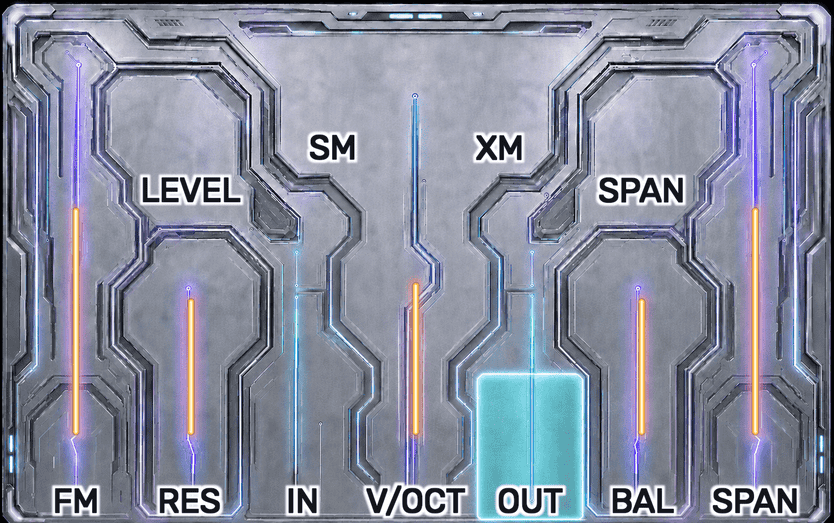
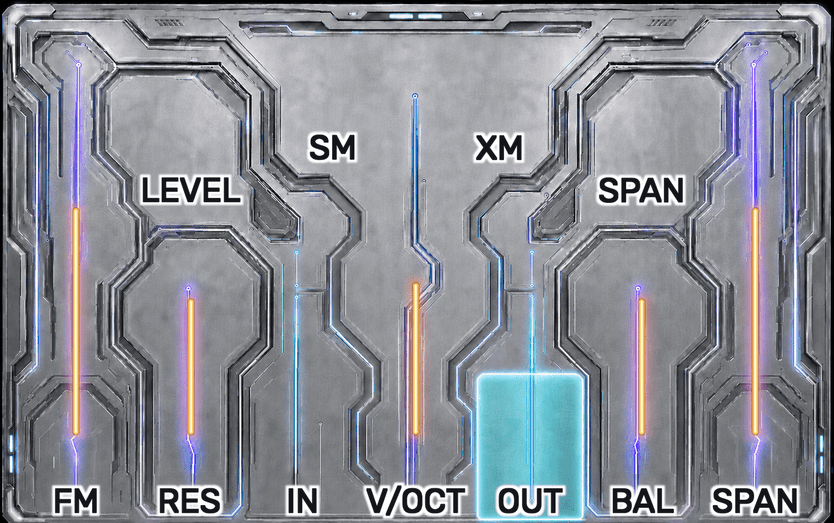
Rework bifurx panels to be a bit more neutral and bake into process

diff --git a/tools/bifurx_raster_tone.py b/tools/bifurx_raster_tone.py
@@ -1,0 +1,103 @@
+"""Deterministic color treatment shared by the Bifurx raster generators."""
+
+from __future__ import annotations
+
+import numpy as np
+from PIL import Image
+from pathlib import Path
+import shutil
+import subprocess
+import tempfile
+
+
+def _srgb_to_linear(value: np.ndarray) -> np.ndarray:
+    return np.where(
+        value <= 0.04045,
+        value / 12.92,
+        np.power((value + 0.055) / 1.055, 2.4),
+    )
+
+
+def _linear_to_srgb(value: np.ndarray) -> np.ndarray:
+    return np.where(
+        value <= 0.0031308,
+        value * 12.92,
+        1.055 * np.power(value, 1.0 / 2.4) - 0.055,
+    )
+
+
+def neutralize_light_panel(image: Image.Image, strength: float = 0.70) -> Image.Image:
+    """Move the low-chroma panel material toward neutral gray.
+
+    Relative luminance is retained. Saturated cyan, violet, and orange light
+    accents are progressively protected between 0.12 and 0.32 sRGB chroma.
+    Neutral black/white typography is unchanged by construction.
+    """
+    if not 0.0 <= strength <= 1.0:
+        raise ValueError("neutral strength must be between 0 and 1")
+    source = image.convert("RGB")
+    if strength == 0.0:
+        return source
+
+    srgb = np.asarray(source, dtype=np.float32) / 255.0
+    chroma = np.max(srgb, axis=2) - np.min(srgb, axis=2)
+    protection = np.clip((chroma - 0.12) / 0.20, 0.0, 1.0)
+    protection = protection * protection * (3.0 - 2.0 * protection)
+    amount = strength * (1.0 - protection)
+
+    linear = _srgb_to_linear(srgb)
+    luminance = (
+        0.2126 * linear[:, :, 0]
+        + 0.7152 * linear[:, :, 1]
+        + 0.0722 * linear[:, :, 2]
+    )
+    neutral = _linear_to_srgb(np.clip(luminance, 0.0, 1.0))
+    result = srgb + amount[:, :, None] * (neutral[:, :, None] - srgb)
+    encoded = np.clip(np.rint(result * 255.0), 0, 255).astype(np.uint8)
+    return Image.fromarray(encoded, mode="RGB")
+
+
+def save_runtime_png(image: Image.Image, destination: Path, colors: int) -> None:
+    """Save a runtime PNG, using pngquant for perceptual palette selection.
+
+    ``colors == 0`` deliberately preserves full color. Palette generation is
+    never silently delegated to Pillow's median-cut fallback because that loses
+    important Bifurx glow gradients at practical palette sizes.
+    """
+    destination.parent.mkdir(parents=True, exist_ok=True)
+    if colors == 0:
+        image.save(destination, format="PNG", optimize=True)
+        return
+
+    pngquant = shutil.which("pngquant")
+    if not pngquant:
+        raise RuntimeError(
+            "pngquant is required for optimized Bifurx runtime assets; "
+            "install it or pass --colors 0 for full-color output"
+        )
+    optipng = shutil.which("optipng")
+    if not optipng:
+        raise RuntimeError(
+            "optipng is required for losslessly optimized Bifurx runtime assets; "
+            "install it or pass --colors 0 for full-color output"
+        )
+    with tempfile.TemporaryDirectory(prefix="bifurx-png-") as temp_dir:
+        source = Path(temp_dir) / "source.png"
+        image.save(source, format="PNG", optimize=True)
+        subprocess.run(
+            [
+                pngquant,
+                "--force",
+                "--speed",
+                "1",
+                "--output",
+                str(destination),
+                str(colors),
+                str(source),
+            ],
+            check=True,
+        )
+        subprocess.run(
+            [optipng, "-quiet", "-o2", str(destination)],
+            check=True,
+        )

diff --git a/tools/convert_bifurx_rasters.py b/tools/convert_bifurx_rasters.py
@@ -23,6 +23,8 @@ from pathlib import Path
 
 from PIL import Image, ImageOps
 
+from bifurx_raster_tone import neutralize_light_panel, save_runtime_png
+
 
 REPO_ROOT = Path(__file__).resolve().parents[1]
 ASSETS = {
@@ -33,24 +35,31 @@ ASSETS = {
 }
 
 
-def convert(source: Path, destination: Path, size: tuple[int, int], colors: int) -> None:
+def convert(
+    source: Path,
+    destination: Path,
+    size: tuple[int, int],
+    colors: int,
+    neutral_strength: float = 0.0,
+) -> None:
     with Image.open(source) as opened:
         image = ImageOps.exif_transpose(opened)
         has_alpha = image.mode in {"RGBA", "LA"} or "transparency" in image.info
         image = image.convert("RGBA" if has_alpha else "RGB")
+        if neutral_strength:
+            if has_alpha:
+                alpha = image.getchannel("A")
+                image = neutralize_light_panel(image, neutral_strength).convert("RGBA")
+                image.putalpha(alpha)
+            else:
+                image = neutralize_light_panel(image, neutral_strength)
         image = ImageOps.fit(
             image,
             size,
             method=Image.Resampling.LANCZOS,
             centering=(0.5, 0.5),
         )
-        if colors > 0:
-            quantize_method = (
-                Image.Quantize.FASTOCTREE if has_alpha else Image.Quantize.MEDIANCUT
-            )
-            image = image.quantize(colors=colors, method=quantize_method)
-        destination.parent.mkdir(parents=True, exist_ok=True)
-        image.save(destination, format="PNG", optimize=True)
+        save_runtime_png(image, destination, colors)
 
     color_description = f"<= {colors} colors" if colors > 0 else "full color"
     print(
@@ -74,10 +83,16 @@ def main() -> int:
         help="destination directory (default: repository res/bifurx directory)",
     )
     parser.add_argument(
+        "--light-neutral-strength",
+        type=float,
+        default=0.70,
+        help="low-chroma neutralization applied only to light assets (default: 0.70)",
+    )
+    parser.add_argument(
         "--colors",
         type=int,
-        default=96,
-        help="maximum indexed-PNG palette size; 0 preserves full color (default: 96)",
+        default=256,
+        help="maximum perceptual indexed-PNG palette size; 0 preserves full color (default: 256)",
     )
     parser.add_argument(
         "--native-resolution",
@@ -91,6 +106,8 @@ def main() -> int:
         parser.error("provide at least one top or bottom source image")
     if args.colors != 0 and not 2 <= args.colors <= 256:
         parser.error("--colors must be 0 or between 2 and 256")
+    if not 0.0 <= args.light_neutral_strength <= 1.0:
+        parser.error("--light-neutral-strength must be between 0 and 1")
 
     for key, source in requested:
         if not source.is_file():
@@ -99,7 +116,13 @@ def main() -> int:
         if args.native_resolution:
             with Image.open(source) as opened:
                 size = opened.size
-        convert(source, args.output_dir / output_name, size, args.colors)
+        convert(
+            source,
+            args.output_dir / output_name,
+            size,
+            args.colors,
+            args.light_neutral_strength if key.startswith("light_") else 0.0,
+        )
     return 0
 
 

diff --git a/tools/composite_bifurx_bottom.py b/tools/composite_bifurx_bottom.py
@@ -33,6 +33,7 @@ import numpy as np
 from PIL import Image, ImageDraw, ImageFilter
 
 from split_svg_labels import find_inkscape, path_for_executable
+from bifurx_raster_tone import neutralize_light_panel, save_runtime_png
 
 
 REPO_ROOT = Path(__file__).resolve().parents[1]
@@ -353,6 +354,7 @@ def build_combined(
     colors: int,
     linear_light_resize: bool,
     output_size: tuple[int, int],
+    neutral_strength: float = 0.0,
 ) -> None:
     tight_kernel_radius = max(1, round(tight_radius_px * supersample))
     tight_kernel_size = tight_kernel_radius * 2 + 1
@@ -386,6 +388,8 @@ def build_combined(
         raise ValueError(
             f"{background_path} is {background.size}, expected full-resolution {SOURCE_SIZE}"
         )
+    if neutral_strength:
+        background = neutralize_light_panel(background, neutral_strength)
 
     background_srgb = np.asarray(background, dtype=np.float32) / 255.0
     combined_linear = srgb_to_linear(background_srgb)
@@ -411,10 +415,7 @@ def build_combined(
     )
     if not linear_light_resize and output_size != SOURCE_SIZE:
         combined = combined.resize(output_size, Image.Resampling.LANCZOS)
-    if colors > 0:
-        combined = combined.quantize(colors=colors, method=Image.Quantize.MEDIANCUT)
-    destination.parent.mkdir(parents=True, exist_ok=True)
-    combined.save(destination, format="PNG", optimize=True)
+    save_runtime_png(combined, destination, colors)
     if output_size == SOURCE_SIZE:
         resize_mode = "native/no resize"
     else:
@@ -483,10 +484,16 @@ def main() -> int:
         help="label-mask supersampling factor (default: 2)",
     )
     parser.add_argument(
+        "--light-neutral-strength",
+        type=float,
+        default=0.70,
+        help="low-chroma neutralization applied only to the light background (default: 0.70)",
+    )
+    parser.add_argument(
         "--colors",
         type=int,
-        default=0,
-        help="indexed-PNG palette size; 0 preserves full RGB (default: 0)",
+        default=256,
+        help="perceptual indexed-PNG palette size; 0 preserves full RGB (default: 256)",
     )
     parser.add_argument(
         "--linear-light-resize",
@@ -540,6 +547,8 @@ def main() -> int:
         parser.error("--supersample must be between 1 and 8")
     if args.colors != 0 and not 16 <= args.colors <= 256:
         parser.error("--colors must be 0 or between 16 and 256")
+    if not 0.0 <= args.light_neutral_strength <= 1.0:
+        parser.error("--light-neutral-strength must be between 0 and 1")
     if args.runtime_base_dir and args.native_resolution:
         parser.error("--native-resolution requires the full source-compositor path")
 
@@ -603,6 +612,7 @@ def main() -> int:
         colors=args.colors,
         linear_light_resize=args.linear_light_resize,
         output_size=output_size,
+        neutral_strength=args.light_neutral_strength,
     )
     build_combined(
         args.dark_background,
@@ -623,6 +633,7 @@ def main() -> int:
         colors=args.colors,
         linear_light_resize=args.linear_light_resize,
         output_size=output_size,
+        neutral_strength=0.0,
     )
     return 0
 
